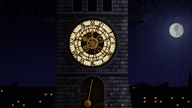
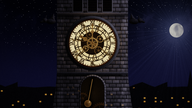
Halloween fase 23: reloj (27) con relieve en torre y esfera
Mapa de alturas horneado (sillares, pilastras, cornisas, campanario,
gargolas, dovelas, bisel, numeros y tracerias) -> lamina 4_relieve. Luz
en vivo: luna con contraluz, relampago desde su lado y el resplandor de
la esfera sobre la piedra de alrededor. Mismo costo en el banco.

Claude-Session: https://claude.ai/code/session_01NVP2u1MWPb16oy8b6RCqty

diff --git a/td/tools/bake_plates_reloj.py b/td/tools/bake_plates_reloj.py
@@ -20,6 +20,8 @@ Laminas:
              B grietas de la esfera: cuando llegan (0.02..1; 0 = nunca;
              D6 las abre desde el centro), A = 1 siempre
   3_ruido    el ruido que se repite de la escena 00 (nubes, niebla)
+  4_relieve  relieve de la torre y la esfera (fase 23): RG normal, B
+             cavidad, A = hay relieve
 
 uso: python3 td/tools/bake_plates_reloj.py   (despues: build_atlas.py)
 """
@@ -38,7 +40,7 @@ FRAG = os.path.join(SET, 'visuals', 'scene27_reloj.frag')
 SS = 2
 R = (-3.4, -1.25, 3.4, 1.25)
 W, H = 1280, 470
-PLATES = [('1_torre', 0), ('2_marcas', 1)]
+PLATES = [('1_torre', 0), ('2_marcas', 1), ('4_relieve', 2)]
 
 VERT = """#version 330
 in vec2 in_pos; out vec2 vUV;
@@ -264,8 +266,102 @@ S shade(vec2 p){
   return o;
 }
 
+
+// ---------- RELIEVE (fase 23) ----------
+// Altura de cada punto de la torre: sillares con juntas hundidas y caras
+// un poco abombadas, pilastras y cornisas salientes, campanario hundido
+// con persianas inclinadas, gargolas con volumen, dovelas del arco, y en
+// la esfera el bisel de piedra, el aro de hierro, los numeros y las
+// tracerias en relieve sobre el vidrio. La escena saca la normal y hace
+// la luz en vivo (luna, relampago y el resplandor de la esfera).
+float height(vec2 p, out float on){
+  on=0.; float h=0.;
+  vec2 dc=RJ_DIAL.xy; float RO=RJ_DIAL.z;
+  float tw=RJ_TOWER;
+  bool tower=abs(p.x)<tw+0.10*smoothstep(-0.2,-1.2,p.y);
+  if(tower){
+    on=1.;
+    vec2 s2=p*vec2(7.,13.); float row=floor(s2.y);
+    s2.x+=mod(row,2.)*0.5+h21(vec2(row,3.))*0.3;
+    vec2 f=fract(s2);
+    float j=min(min(f.x,1.-f.x)*1.85,min(f.y,1.-f.y));
+    h=0.010*smoothstep(0.02,0.09,j)+0.004*sin(f.x*3.14)*sin(f.y*3.14)+0.002*(fbm(p*30.,3)-0.5);
+    float pil=abs(abs(p.x)-tw+0.07)-0.07;
+    if(pil<0.) h+=0.035;
+    for(int k=0;k<3;k++){
+      float cy=k==0?-0.25:(k==1?0.95:-0.98);
+      if(abs(p.y-cy)<0.03) h=0.06+(p.y-cy)*0.4;
+    }
+    for(int k=-1;k<=1;k++){
+      vec2 q=p-vec2(float(k)*0.30,1.14);
+      float arch=max(abs(q.x)-0.09,q.y-0.14);
+      arch=min(arch,length(q-vec2(0.,0.14))-0.09);
+      arch=max(arch,-q.y-0.14);
+      if(arch<0.) h=-0.05+0.012*fract((q.y+0.2)*22.);
+      else if(arch<0.02) h=0.02;
+    }
+  }
+  for(int s=0;s<2;s++){
+    float sg=s==0?-1.:1.;
+    vec2 q=(p-vec2(sg*(tw+0.02),0.80))*vec2(sg,1.);
+    float body=length((q-vec2(0.10,0.0))*vec2(0.9,1.6))-0.09;
+    float head=length(q-vec2(0.22,0.02))-0.05;
+    float snout=sdSeg(q,vec2(0.22,0.02),vec2(0.30,-0.01))-0.022;
+    float wing=sdTri(q,vec2(0.02,0.02),vec2(0.14,0.04),vec2(0.04,0.17));
+    float horn=sdSeg(q,vec2(0.21,0.06),vec2(0.19,0.12))-0.008;
+    float d=min(min(min(body,head),min(snout,wing)),horn);
+    if(d<0.){ on=1.; h=0.08+sqrt(min(-d,0.06))*0.25+0.004*(fbm(q*60.,3)-0.5); }
+  }
+  {
+    vec2 q=p-RJ_ARCH.xy; float d=rjArchD(p);
+    if(d<0.){ on=0.; return 0.; }
+    if(d<0.035){ on=1.; float ang=atan(q.y,q.x); h=0.03*smoothstep(0.035,0.012,d)*(0.7+0.3*step(0.08,abs(fract(ang*5.)-0.5)*2.)); }
+  }
+  vec2 q=p-dc; float r=length(q); float ang=atan(q.x,q.y);
+  if(r<RO+0.05){
+    on=1.;
+    if(r>RO) h=0.05+(RO+0.05-r)*0.8*0.0+0.04*smoothstep(RO+0.05,RO,r);
+    else if(r>RO-0.035){ float b=(r-(RO-0.035))/0.035; h=0.06+sin(b*3.14)*0.02; }
+    else if(r>RJ_RIN){
+      h=0.0;
+      float mA=fract(ang/6.2831853*60.+0.5)-0.5;
+      if(r>RO-0.065&&abs(mA)<0.08) h=0.006;
+      float seg=ang/6.2831853*12.; float ni=floor(seg+0.5); float a0=ni/12.*6.2831853;
+      vec2 nc=vec2(sin(a0),cos(a0))*RJ_RNUM;
+      vec2 rad=vec2(sin(a0),cos(a0)), tan2=vec2(cos(a0),-sin(a0));
+      vec2 l=vec2(dot(q-nc,tan2),dot(q-nc,rad))/0.085;
+      int n=int(mod(ni+11.,12.))+1;
+      if(abs(l.x)<1.2&&abs(l.y)<0.8){ float d=roman(l,n); if(d<0.) h=0.008+min(-d,0.04)*0.1; }
+      if(r<RJ_RIN+0.012) h=0.012;
+    }
+    else if(r>RJ_RCUT){
+      float spoke=abs(fract(ang/6.2831853*12.)-0.5)*r*6.2831853/12.;
+      float tr=min(spoke-0.006, abs(r-(RJ_RCUT+RJ_RIN)*0.5)-0.006);
+      float fa=fract(ang/6.2831853*12.)-0.5;
+      float lob=abs(length(vec2(fa*r*6.2831853/12.,r-(RJ_RIN-0.045)))-0.045)-0.005;
+      lob=max(lob,-(r-(RJ_RIN-0.045)));
+      h=(tr<0.||lob<0.)?0.010:0.0;
+    }
+    else if(r>RJ_RCUT-0.02) h=0.02;
+    else { on=0.; h=0.; }
+  }
+  return h;
+}
+vec4 relief(vec2 p){
+  float on,o2; float h=height(p,on);
+  if(on<0.5) return vec4(0.5,0.5,1.,0.);
+  float e=0.0026;
+  float hx=height(p+vec2(e,0.),o2)-height(p-vec2(e,0.),o2);
+  float hy=height(p+vec2(0.,e),o2)-height(p-vec2(0.,e),o2);
+  vec3 n=normalize(vec3(-hx/(2.*e),-hy/(2.*e),1.));
+  float avg=0.; for(int k=0;k<4;k++){ float a=float(k)*1.5708; avg+=height(p+vec2(cos(a),sin(a))*0.012,o2); }
+  float ao=clamp(1.-max(avg*0.25-h,0.)*14.,0.45,1.);
+  return vec4(n.xy*0.5+0.5,ao,1.);
+}
+
 void main(){
   vec2 p=mix(rect.xy,rect.zw,vUV);
+  if(plate==2){ fc=relief(p); return; }
   S o=shade(p);
   if(plate==1){ fc=vec4(o.mk.rgb,1.); return; }
   fc=vec4(pow(clamp(o.c*2.,0.,1.),vec3(1./2.2)),o.a);
@@ -300,7 +396,7 @@ def bake():
         img = np.frombuffer(fbo.read(components=4, dtype='f4'), 'f4').reshape(H * SS, W * SS, 4)[::-1]
         fbo.release()
         r = img.reshape(H, SS, W, SS, 4)
-        if pid == 0:
+        if pid in (0, 2):
             a = img[..., 3:4]
             pm = np.concatenate([img[..., :3] * a, a], -1).reshape(H, SS, W, SS, 4).mean((1, 3))
             rgb = pm[..., :3] / np.maximum(pm[..., 3:4], 1e-5)

diff --git a/docs/53_SETS_Y_HALLOWEEN.md b/docs/53_SETS_Y_HALLOWEEN.md
@@ -502,3 +502,15 @@ La fachada tiene ahora un **mapa de alturas** horneado (`height()` en `bake_plat
 - la luz de cada ventana pega más en lo que la mira: el canto de las persianas, el alféizar, el marco.
 
 **Costo:** ~20 % más que antes en el banco de prueba, al nivel de la escena más pesada del set (el bosque de faroles). Confirmar los FPS en TD. **Reconstruir Todo:** lámina nueva.
+
+## Fase 23: reloj con relieve (escena 27)
+
+![Antes y ahora](img/reloj_2d_vs_3d.jpg)
+
+Mapa de alturas horneado (`height()` en `bake_plates_reloj.py`, lámina `4_relieve`): sillares con juntas hundidas, pilastras, cornisas, campanario hundido con persianas, gárgolas con volumen, dovelas del arco y, en la esfera, el bisel, el aro de hierro, los números y las tracerías en relieve. En vivo:
+
+- la luna desde la derecha con contraluz en los cantos;
+- el relámpago del gran clímax desde el lado del rayo;
+- **el resplandor de la esfera ilumina la piedra que la rodea**: en el clímax el rojo marca cada junta y el bisel.
+
+**Costo:** igual que antes en el banco de prueba. **Reconstruir Todo:** lámina nueva.

diff --git a/CLAUDE.md b/CLAUDE.md
@@ -35,3 +35,4 @@ Trabajar en una rama; hacer **commit y push**. Desde el 21 de octubre de 2026: *
 - **Fase 20** (rama `claude/halloween-f20-cementerio-3d`, sobre f19): prueba de realismo en la escena 00: lápidas horneadas como sólidos 3D con normal, luz en vivo (`stoneLight`). Comparación en docs/img/cementerio_2d_vs_3d*.jpg.
 - **Fase 21** (rama `claude/halloween-f21-calabazas-3d`, sobre f20): calabaza 3D (01 y 13) y tallado con grosor en la 01. Plan de fases 22–28 (3D): 22 mansión, 23 reloj, 24 momia+esqueleto, 25 bosque+fantasmas, 26 castillo+tormenta, 27 manos+túnel, 28 velas+caldero(+sábanas morgue).
 - **Fase 22** (rama `claude/halloween-f22-mansion-3d`, sobre f21): relieve de la fachada de la mansión (26) con luz en vivo.
+- **Fase 23** (rama `claude/halloween-f23-reloj-3d`, sobre f22): relieve de la torre y la esfera del reloj (27).
